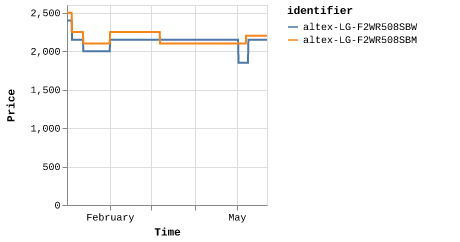
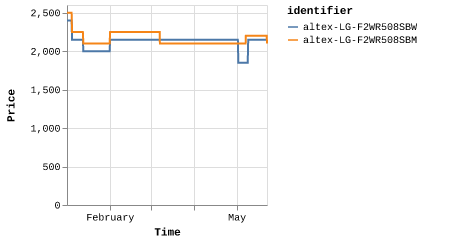
Latest scraping spalat: Wed May 22 12:52:59 UTC 2024

diff --git a/scrapes/spalat/altex-LG-F2WR508SBM.md b/scrapes/spalat/altex-LG-F2WR508SBM.md
@@ -1,3 +1,3 @@
-2199
+2099
 
 [Source](https://altex.ro/masina-de-spalat-rufe-frontala-slim-lg-f2wr508sbm-steam-8-kg-1200rpm-clasa-a-negru/cpd/MSFF2WR508SBM/)
